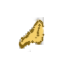
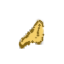
Add heads to worms

Changed region(s): [[0.2812, 0.5625, 0.375, 0.625], [0.6562, 0.25, 0.6875, 0.3438], [0.5625, 0.2812, 0.625, 0.3438]]

diff --git a/core/src/ee/taltech/iti0202/gui/game/desktop/entities/animated/SpriteAnimation.java b/core/src/ee/taltech/iti0202/gui/game/desktop/entities/animated/SpriteAnimation.java
@@ -1,7 +1,5 @@
 package ee.taltech.iti0202.gui.game.desktop.entities.animated;
 
-import com.badlogic.gdx.Gdx;
-import com.badlogic.gdx.files.FileHandle;
 import com.badlogic.gdx.graphics.g2d.Sprite;
 import com.badlogic.gdx.graphics.g2d.SpriteBatch;
 import com.badlogic.gdx.math.Vector2;
@@ -10,14 +8,11 @@ import com.brashmonkey.spriter.Data;
 import com.brashmonkey.spriter.Drawer;
 import com.brashmonkey.spriter.LibGdx.LibGdxDrawer;
 import com.brashmonkey.spriter.LibGdx.LibGdxLoader;
-import com.brashmonkey.spriter.PlayerTweener;
-import com.brashmonkey.spriter.SCMLReader;
 
 import java.util.HashSet;
 
 import ee.taltech.iti0202.gui.game.desktop.entities.animated.loader.AnimationLoader;
 
-import static ee.taltech.iti0202.gui.game.desktop.handlers.variables.B2DVars.PATH;
 import static ee.taltech.iti0202.gui.game.desktop.handlers.variables.B2DVars.PPM;
 
 public class SpriteAnimation {
@@ -32,6 +27,10 @@ public class SpriteAnimation {
     private float opacity = 1;
 
     public SpriteAnimation(Body body, SpriteBatch sb, String path) {
+        this(body, sb, path, null);
+    }
+
+    public SpriteAnimation(Body body, SpriteBatch sb, String path, String entity) {
         System.out.println("New body: " + body.toString());
         this.body = body;
         //animation = new Animation();
@@ -39,7 +38,11 @@ public class SpriteAnimation {
         loader = AnimationLoader.getLoader(path);
 
         drawer = new LibGdxDrawer(loader, sb, null); // no shape rendering
-        playerTweener = new MyPlayerTweener(data.getEntity(0));
+        if (entity != null) {
+            playerTweener = new MyPlayerTweener(data.getEntity(entity));
+        } else {
+            playerTweener = new MyPlayerTweener(data.getEntity(0));
+        }
         playerTweener.setPivot(0, 0);
         HashSet<String> toPlayOnce = new HashSet<>();
         toPlayOnce.add("roll");

diff --git a/core/src/ee/taltech/iti0202/gui/game/desktop/states/Play.java b/core/src/ee/taltech/iti0202/gui/game/desktop/states/Play.java
@@ -366,11 +366,11 @@ public class Play extends GameState {
                 this.tempPosition = position;
                 this.bossLoader = loader;
                 Array<Boss> tempArray = new Array<>();
-                initSnakePart("magmawormhead" + scale, tempArray);
+                initSnakePart(MagmaWorm.Part.HEAD, scale, tempArray);
                 tempPosition.y -= 60 * scale / PPM;
 
                 for (int i = 0; i < size; i++) {
-                    initSnakePart("magmawormbody" + scale, tempArray);
+                    initSnakePart(MagmaWorm.Part.BODY, scale, tempArray);
 
                     craeteJointBetweenLinks(tempArray, 0.45f);
                     craeteJointBetweenLinks(tempArray, 0.55f);
@@ -413,12 +413,12 @@ public class Play extends GameState {
         world.createJoint(distanceJointDef);
     }
 
-    private void initSnakePart(String bodyPart, Array<Boss> tempArray) {
+    private void initSnakePart(MagmaWorm.Part part, float size, Array<Boss> tempArray) {
         MagmaWormProperties alias = new MagmaWormProperties(bdef, fdef, tempPosition);
         Body body = world.createBody(alias.getBdef());
         body.createFixture(alias.getFdef());
-        bossLoader.attachFixture(body, bodyPart, alias.getFdef(), scale);
-        Boss boss = new MagmaWorm(body, sb, MAGMAWORM, this, bodyPart);
+        bossLoader.attachFixture(body, part.toString() + size, alias.getFdef(), scale);
+        Boss boss = new MagmaWorm(body, sb, MAGMAWORM, this, part, size);
         boss.getBody().setUserData(MAGMAWORM);
         tempArray.add(boss);
         tempPosition.y -= 50 * scale / PPM;

diff --git a/core/src/ee/taltech/iti0202/gui/game/desktop/entities/MagmaWorm.java b/core/src/ee/taltech/iti0202/gui/game/desktop/entities/MagmaWorm.java
@@ -24,12 +24,29 @@ public class MagmaWorm extends Boss {
         }
     }
 
+    public enum Part {
+        HEAD ("magmawormhead"), BODY ("magmawormbody");
+
+        private final String name;
+
+        Part(String s) {
+            name = s;
+        }
+
+        public String toString() {
+            return this.name;
+        }
+    }
+
     private float max_speed = 3;
     private float time = 0;
 
-    public MagmaWorm(Body body, SpriteBatch sb, String type, Play play, String part) {
-        super(body, sb, type, play);
+    public MagmaWorm(Body body, SpriteBatch sb, String type, Play play, Part part, float size) {
+        super(body, sb, play, "images/bosses/magmaworm/magmaworm.scml", part == Part.HEAD ? "head" : "body");
+        body.setUserData(type); //TODO: Something more intelligent here
         setAnimation(MagmaWormAnimation.DEFAULT.name, false);
+        setAnimationSpeed(50);
+        setScale(size); //TODO: Bend animation / smoother bodies
     }
 
     @Override

diff --git a/core/src/ee/taltech/iti0202/gui/game/desktop/entities/Boss.java b/core/src/ee/taltech/iti0202/gui/game/desktop/entities/Boss.java
@@ -9,18 +9,14 @@ import ee.taltech.iti0202.gui.game.desktop.states.Play;
 
 public abstract class Boss extends SpriteAnimation {
 
-    private String type;
-
     public Play getPlay() {
         return play;
     }
 
     protected Play play;
 
-    Boss(Body body, SpriteBatch sb, String type, Play play) {
-        super(body, sb, "images/bosses/magmaworm/magmaworm.scml"); //TODO: Type...
-        body.setUserData(type);
-        this.type = type;
+    Boss(Body body, SpriteBatch sb, Play play, String path, String entity) {
+        super(body, sb, path, entity);
         this.play = play;
     }
 
